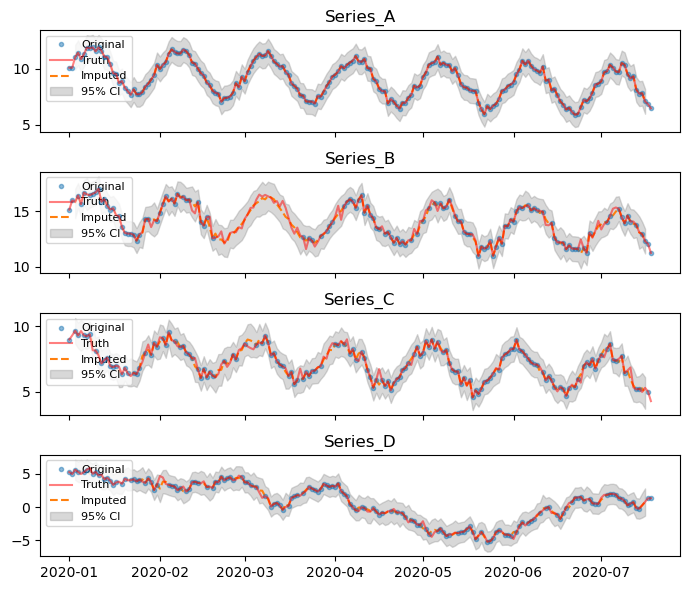
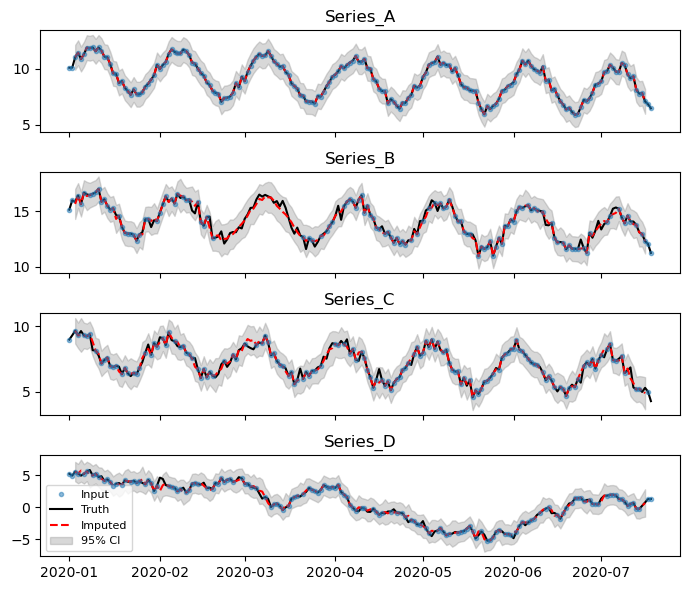
update figure

diff --git a/paper/paper.md b/paper/paper.md
@@ -108,9 +108,9 @@ df_imputed, df_std = imputer.fit_transform(
 )
 ```
 
-\autoref{fig:1} shows an example of time series filling for a collection of sites with varying degrees of correlation and data sparsity. The synthetic data and code to generate this figure are included in the augmented_example.ipynb in the examples directory. Note that Series_D is not correlated with any of the others; however, short gaps can be filled by using derivative-based and time-lag data augmentation.
+\autoref{fig:1} illustrates the imputer's performance across four synthetic sites with varying correlation structures. The `truth` (solid black) represents the held-back data, while the `imputed` values (dashed red) fill the gaps created for validation solely based on SVD using the `input` data (blue dots). The shaded grey region represents the 95% confidence interval, derived from $M=10$ imputations using Rubin’s Rules to account for both model and residual uncertainty. Note that for Series_D, which lacks correlation with other sites, the gap is successfully recovered using derivative-based and time-lag data augmentation.
 
-![Caption for example figure.\label{fig:1}](fig1.png)
+![Demonstration of SVD-based imputation. The truth (black) is compared against imputed values (dashed red). The shaded area denotes the 95% confidence interval calculated via Rubin’s Rules, propagating uncertainty from multiple stochastic SVD iterations.\label{fig:1}](fig1.png)
 
 
 # Final remarks
